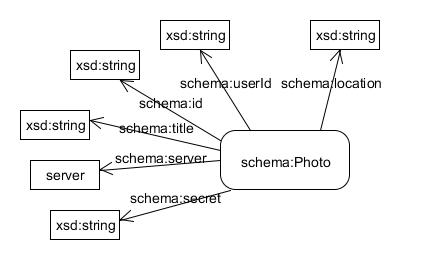
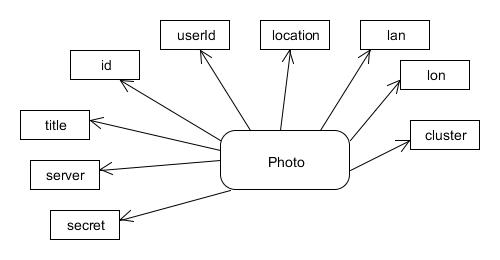
readme

diff --git a/src/test/Test.java b/src/test/Test.java
@@ -65,16 +65,16 @@ public class Test {
         CreateArff ca = new CreateArff();
         ca.general(listPhoto2);
 */
-    //    ReadArff ra = new ReadArff();
+        ReadArff ra = new ReadArff();
 
         //changing number of clusters led to a conclusion the best number is 5
-    /*    for (int i = 1; i < 30; i++) {
+        for (int i = 1; i < 30; i++) {
            ra.readArff("trial", i, "rez" + i);
         }
-*/
+
     //    ra.readArff("trial", 5, "result");
         
-       Desktop.getDesktop().browse(new URI("file:///home/jelena/NetBeansProjects/FlickrClusterization%20/src/visualization/sharks.html")); 
+    //   Desktop.getDesktop().browse(new URI("file:///home/jelena/NetBeansProjects/FlickrClusterization%20/src/visualization/sharks.html")); 
        
     }
 

diff --git a/src/weka/ReadArff.java b/src/weka/ReadArff.java
@@ -59,7 +59,7 @@ public class ReadArff {
         filteredClusterer.setFilter(removeFilter);
         filteredClusterer.buildClusterer(data);
 
-        writeCluster("data/changedLocation", data, filteredClusterer);
+    //    writeCluster("data/changedLocation", data, filteredClusterer);
 
         // Result of clusterization
         ClusterEvaluation eval = new ClusterEvaluation();

diff --git a/README.md b/README.md
@@ -1,8 +1,7 @@
 FlickrClusterization
 ==============
 #1. O projektu
-Tema projekta je da se kreira aplikacija koja će omogućiti da se pristupi podacima o slikama korišćenjem Flickr API-a (https://www.flickr.com/services/api/). Potrebno je preuzeti podatke o slikama, zatim obraditi podatke i sačuvati ih, kasnije pomoću servisa Geonames (http://www.geonames.org/) preuzeti podatke o lokaciji, odnosno državi.
-Takođe, potrebno je klasterizovati preuzete slike.
+Tema projekta je da se kreira aplikacija koja će omogućiti da se na osnovu raspoloživih podataka o slikama dobijenih korišćenjem Flickr API-a (https://www.flickr.com/services/api/) klasterizuju slike. S obzirom na raznovrsnost slika koje se svakodnevno postavljaju na Flickr, odlučila sam da ograničim domen aplikacije na slike o ajkulama.
 
 Faze u razvoju aplikacije:
 * Preuzimanje podataka o slikama kroz Flickr API i njihovo čuvanje
@@ -17,26 +16,49 @@ Nakon analize podataka koje pruža Flickr API (https://www.flickr.com/services/a
 
 Slika 1 - Domenski model
 
-Klasa Photo sadrži podatke o slici kao što su: id, id vlasnika, naslov slike, server, secret kod i podatak o lokaciji koji se dobija korišćenjem Geonames servisa. 
+Klasa Photo sadrži podatke o slici kao što su: id, id vlasnika, naslov slike, server, secret kod, podatak o lokaciji, geografsku dužinu i širinu i klaster kome slika pripada nakon što je izvršena klasterizacija.
 
 #3. Rešenje
-Aplikacija preuzima podatke sa dva različita izvora ([Flickr](https://www.flickr.com/services/api/), [Geonames](http://www.geonames.org/)), zatim spaja te podatke i stavlja ih u JSON fajl. 
+
+Flickr je sajt koji sčuži za postavljanje slika kako bi korisnici, i ostali posetioci sajta mogli da ih vide. Flickr omogućava pristup svojim podacima preko ([API-ja](https://www.flickr.com/services/api/). Kako bi se ova mogućnost koristila, prvo je potrebno registrovati se na sajt. Nakon registracije potrebno je zatražiti *API key* koji se kasnije koristi za pozivanje različitih funkcija ovog servisa. Primer korišćenja API-ja za dobijanje slika:
 
 [Flickr](https://www.flickr.com/services/api/) daje podatke o slici u željenom formatu. U sledećem primeru poziva korišćen je JSON format:
 >[https://api.flickr.com/services/rest/?method=flickr.photos.search&text=shark&sort=relevance&page=1&api_key=64a298d057676a6d7298262797a23440&format=json]
 (https://api.flickr.com/services/rest/?method=flickr.photos.search&text=shark&sort=relevance&page=1&api_key=64a298d057676a6d7298262797a23440&format=json)
 
-Parametar *method* ukazuje na metodu koja se poziva na sajtu, u ovom slučaju je to metoda search. Da bi se koristila metoda search, potrebno je uneti kriterijum pretrage, što je u primeru zadata reč shark. Parametar *sort* se odnosi na način sortiranja, ovde je to po relevantnosti. Zatim, parametar *page* nam pomaže da se lakše kećemo po dobijenim rezultatima pretrage, odnosno da nam kao rezultat metode bude vraćena samo prva stranica. Parametar *api_key* se dobija prilikom registracije za korišćenje Flickr API-a, i obavezan je deo poziva svake metode. Parametar *format* nam omogućava da rezultat metode bude vraćen u formatu koji nama odgovara, u ovom slučaju je to JSON. Podaci koji se na osnovu ovog poziva preuzimaju su: id, userId, title, server, secret i location.
+Parametri koji se šalju:
+* *method* ukazuje na metodu koja se poziva na sajtu, u ovom slučaju je to metoda search. Da bi se koristila metoda search, potrebno je uneti kriterijum pretrage, što je u primeru zadata reč *shark*
+* *sort* se odnosi na način sortiranja, ovde je to po relevantnosti.
+* *page* nam pomaže da se lakše krećemo po dobijenim rezultatima pretrage, odnosno da nam kao rezultat metode bude vraćena samo prva stranica
+* *api_key* se dobija prilikom registracije za korišćenje Flickr API-a.
+* *format* nam omogućava da rezultat metode bude vraćen u formatu koji nama odgovara, u ovom slučaju je to JSON.
 
-[Geonames](http://www.geonames.org/) daje podatke o geografskoj lokaciji unetog mesta. Ovde se mogu dobiti informacije kao što su geografska dužina i širina, kod države, populacija, naziv države. U sledećem primeru dat je poziv ovog servisa:
+Primer odgovora Flickr API-ja:
+
+```
+jsonFlickrApi({"photos":{"page":1,"pages":12505,"perpage":100,"total":"1250481","photo":[{"id":"5266243108","owner":"21915962@N02","secret":"8bb6ebc8b8","server":"5284","farm":6,"title":"Caribbean Reef Shark at Tiger Beach in the Bahamas","ispublic":1,"isfriend":0,"isfamily":0},{"id":"1038089969","owner":"94802649@N00","secret":"e01b5dd141","server":"1012","farm":2,"title":"Tiger shark","ispublic":1,"isfriend":0,"isfamily":0}]
+```
+
+U podacima koji su dobijeni na ovaj način ne postoji podatak o geografskoj širini i dužini, pa je zbog toga potrebno koristiti eksterni servis Geonames.
+
+Geonames je baza geografskih podataka koji su dostupni korišćenjem [Geonames API-ja](http://www.geonames.org/)). Kako bi se omogućilo korišćenje API-ja, potrebno je prvo registrovati se. Prilikom registracije bira se *username* koji se kasnije koristi za poziv operacija ovog servisa. Primer poziva operacije za dobijanje naziva države:
 
 >[http://api.geonames.org/searchJSON?q=Lake%20Worth,%20FL,%20USA&maxRows=1&username=jelena_tabas](http://api.geonames.org/searchJSON?q=Lake%20Worth,%20FL,%20USA&maxRows=1&username=jelena_tabas)
 
-Parametar *q* se odnosi na kriterijum pretrage, odnosno tu stoji informacija koje mesto želimo da nađemo, u ovom slučaju to je Lake Worth, FL, USA. Parametar *max_rows* nam omogućava da ograničimo rezultate pretrage, odnosno da dobijemo samo jedan rezultat, ovde je to prvi, koji smatramo najtačnijim, odnosno preciznijim za našu pretragu. Parametar *username* je potreban kako bi se izvršilo pozivanje Geonames servisa, dobija se prilikom registracije za korišćenje servisa. Preuzeti podaci: countryName.
+Poslati parametri:
+* *q* se odnosi na kriterijum pretrage, odnosno tu stoji informacija koje mesto želimo da nađemo, u ovom slučaju to je Lake Worth, FL, USA.
+* *max_rows* nam omogućava da ograničimo rezultate pretrage, odnosno da dobijemo samo jedan rezultat, ovde je to prvi, koji smatramo najtačnijim, odnosno preciznijim za našu pretragu.
+* *username* je potreban kako bi se izvršilo pozivanje Geonames servisa, dobija se prilikom registracije za korišćenje servisa.
 
-Nakon preuzimanja podataka, može se primetiti da za pojedine slike ne postoji podatak o lokaciji, te nije mogao da se izvrši poziv servisa [Geonames](http://www.geonames.org/), odnosno nisu dobijeni podaci. Zbog toga su slike koje nemaju podatak o lokaciji izbačene iz obrade, tačnije, one koje imaju podatak o lokaciji su premeštene u drugi fajl.
+Primer odgovora Geonames API-ja:
 
-Takođe, kako bi se kasnije omogućila klasterizacija slika na osnovu vrste ajkule koja je prikazana, bilo je potrebno izvršiti obradu podataka. Zbog toga se iz naslova slika zaključivalo koja je vrsta ajkule na slici, te se sama slika nazivala po vrsti. Rezultat ove operacije je dobijeno dvadeset i jedna vrsta ajkule i jedna kao nedefinisana koja ima naziv ajkula.
+```
+{"totalResultsCount":60,"geonames":[{"countryId":"6252001","adminCode1":"FL","countryName":"United States","fclName":"city, village,...","countryCode":"US","lng":"-80.05699","fcodeName":"populated place","toponymName":"Lake Worth","fcl":"P","name":"Lake Worth","fcode":"PPL","geonameId":4161422,"lat":"26.6159","adminName1":"Florida","population":34910}]}
+```
+
+Podaci koji su preuzeti se nalaze u *countryName*, u ovom primeru to je *United States*.
+
+Za potrebe aplikacije preuzeto je 800 slika korišćenjem Flickr API-ja. Ove slike su prošle selekciju, odnosno odbačene su one koje nemaju podatak o lokaciji, nakon čega je ostalo 577 slika. Podatak o lokaciji, odnosno nazivu mesta i/ili države poslat je Geonames API-ju, a natrag su dobijeni podaci o geografskoj širini i dužini koji će se kasnije koristiti za klasterizaciju.
 
 Svi podaci koji su dobijeni smeštani su u JSON fajl. Primer JSON objekta dat je niže:
 
@@ -67,7 +89,7 @@ Svi podaci koji su dobijeni smeštani su u JSON fajl. Primer JSON objekta dat je
 	]
 ```
 
-Kao što se može videti, JSON fajl se sastoji od JSON objekata. Svaki objekat sadrži podatke o slici: id, userId, secret, server, title, location, lon, lat i cluster. Dalje su ovi podaci konvertovani u ARFF fajl. ARFF (Attribute-Relation File Format) fajl je tekstualan ASCII koji opisuje listu instanci koje dele set atributa. ARFF fajl se kasnije koristi za klasterizaciju. Za klasterizaciju je izabrano četiri klastera, jer je probom ustanovljeno da se oko te vrednosti dešava najmanje rasipanje podataka, odnosno najmanja promena greške nastale usled klasterovanja. Nakon klasterovanja, u podacima je promenjena vrednost podatka cluster, pa je dobjen novi JSON fajl:
+Kao što se može videti, JSON fajl se sastoji od JSON objekata. Svaki objekat sadrži podatke o slici: id, userId, secret, server, title, location, lon, lat i cluster. Dalje su ovi podaci konvertovani u ARFF fajl. ARFF (Attribute-Relation File Format) fajl je tekstualan ASCII koji opisuje listu instanci koje dele set atributa. ARFF fajl se kasnije koristi za klasterizaciju. Za klasterizaciju je izabrano pet klastera, jer je probom ustanovljeno da se oko te vrednosti dešava najmanje rasipanje podataka, odnosno najmanja promena greške nastale usled klasterovanja. Nakon klasterovanja, u podacima je promenjena vrednost podatka cluster, pa je dobjen novi JSON fajl:
 
 ```
 	[
@@ -96,14 +118,41 @@ Kao što se može videti, JSON fajl se sastoji od JSON objekata. Svaki objekat s
 	]
 ```
 
+#4. Proces klasterovanja
 
-#4. Korišćena tehnologija
+U ovom primeru korišćen je SimpleKMeans algoritam za klasterovanje. Jedan je od najpoznatijih algoritama za klasterovanje. Koristi se tako što mu se zada broj klastera, a zatim on prolazeći kroz iteracije razvrstava podatke. SimpleKMeans grupiše instance na osnovu Euklidske udaljenosti u ravni koja je postavljena atributima tih instanci. Na početku, prilikom inicijalizacije nasumično bira onoliki broj težišta klastera koliko je zadati broj klastera. U sledećoj iteraciji razvrstava instance na osnovu udaljenosti od težišta klastera. Zatim pomera težište klastera na osnovu izračunatih proseka vrednosti instanci u klasteru. Ovaj postupak se ponavlja sve dok algoritam ne konvergira, jer daljim razvrstavanjem se nece dobiti značajnije promene, pa se proces zaustavlja. 
+
+Kako bi se utvrdilo koji broj klastera je najpogodniji, odnosno koji broj je onaj koji pravi najmanju kvadratnu grešku, potrebno je izvršiti probu. Rezultat probe se može videti na slici 2. Menjanjem broja klastera ustanovljeno je da se prilikom klasterizacije na pet klastera dobija najmanje osipanje podataka uz najmanju kvadratnu grešku od 4.942677457897851.
+
+![Slika 2 - Graph](images/graph.jpg)
+
+Slika 2- Grafikon kvadratnih grešaka
+
+Primenom SimpleKMeans algoritma, dobijeni su sledeći klasteri:
+
+![Slika 3 - Type clusters](images/results.jpg)
+
+Slika 3 - Rezultat klasterizacije
+
+Kao što se na slici 3 može videti, dobijeno je pet klastera sa po 140, 279, 49, 72 i 37 instanci respektivno. U prvom klasteru se nalaze vrste ajkula među kojima je najvise nurse ajkula. U drugom su pretežno bele ajkule. U trećem limun, tigar i reef ajkule. U četvrtom najviše ima kit ajkula. U petom je najviše neimenovanih ajkula, zatim reef i belih ajkula.
+
+U prvom se nalaze instance čija je lokacija najbliža Evropi (njih 140). U drugom se nalaze one koje su najbliže Sjedinjenim Američkim Državama (njih 279). U trećem se nalaze one koje su po lokaciji najbliže Kini (njih 49). U četvrtom se nalaze one instance koje su po lokaciji najbliže Australiji (njih 72). U petom se nalaze one koje su najbliže Južnoj Americi i Africi (njih 37).
+
+Na slici 3 se može videti koliko instanci je u kom klasteru. Od ukupno 577 instanci 140 (24%) je u prvom klasteru; 279 (48%) u drugom; 49 (8%) u trećem; 72 (12%) u četvrtom i 37 (6%) u petom.
+
+Na slici 4 se može videti prikaz klasterizovanih podataka prikazanih na mapi sveta.
+
+![Slika 4 - Clusters](images/map.jpg)
+
+Slika 4- Prikaz klasterizovanih podataka
+
+#5. Korišćene tehnologije
 
 Aplikacija je napisana u programskom jeziku Java. 
 
 Prilikom realizacije aplikacije korišćene su sledeće tehnologije:
 
-1. [Biblioteka za izvrsenje HTTP poziva](http://hc.apache.org/httpcomponents-client-ga/) - za izvršavanje poziva Flickr i Geonames metoda, kako bi se omogućilo dobijanje podataka na kojima će se kasnije raditi.
+1. [Apache Commons](http://hc.apache.org/httpcomponents-client-ga/) - za izvršavanje poziva Flickr i Geonames metoda, kako bi se omogućilo dobijanje podataka na kojima će se kasnije raditi.
 
 ```
     	setMethod(new GetMethod(getRequest()));
@@ -114,15 +163,7 @@ Prilikom realizacije aplikacije korišćene su sledeće tehnologije:
 	setRstream(null);
 	setRstream(getMethod().getResponseBodyAsStream());
 ```
-
-2. [Biblioteka za rad sa JSON-om](http://json.org/java/) - za korišćenje JSON formata i objekata. JSON omogućava lakšu manipulaciu podacima, s obzirom da su podaci smešteni u stablo. Identifikator podatka je njegov naziv preko koga mu se i pristupa. JSON fajl je i čitljiv, odnosno može se jasno razumeti, i ima jednostavnu formu.
-
-```
-      JSONObject jobj = new JSONObject(jstr);
-      JSONObject owner = jobj.getJSONObject("photo").getJSONObject("owner");
-```
-
-3. [GSON biblioteka](https://code.google.com/p/google-gson/) - omogućava korišćenje JSON-a tako što konvertuje Java objekte u JSON objekte. Takođe, može se koristiti i obrnuto za pretvaranje JSON stringa u Java objekte.
+2. [GSON biblioteka](https://code.google.com/p/google-gson/) - omogućava korišćenje JSON-a tako što konvertuje Java objekte u JSON objekte. Takođe, može se koristiti i obrnuto za pretvaranje JSON stringa u Java objekte.
 
 ```
 	JsonArray photosArray = new JsonArray();
@@ -130,7 +171,7 @@ Prilikom realizacije aplikacije korišćene su sledeće tehnologije:
 	photoJson.addProperty("id", p.getId());
 ```
 
-4. [Weka](http://weka.wikispaces.com/Use+WEKA+in+your+Java+code) - (Waikato Environment for Knowledge Analysis) - softver za mašinsko učenje koji omogućuje da izvršimo klasterizaciju podataka (slika). Weka čita iz ARFF fajla podatke, i na osnovu zadatih parametara (filtera, broja klastera, načina klasterizacije) vrši klasterizaciju i ispisuje rezultat.
+3. [Weka](http://weka.wikispaces.com/Use+WEKA+in+your+Java+code) - (Waikato Environment for Knowledge Analysis) - softver za mašinsko učenje koji omogućuje da izvršimo klasterizaciju podataka (slika). Weka čita iz ARFF fajla podatke, i na osnovu zadatih parametara (filtera, broja klastera, načina klasterizacije) vrši klasterizaciju i ispisuje rezultat.
 
 ```
 	ClusterEvaluation eval = new ClusterEvaluation();
@@ -138,7 +179,7 @@ Prilikom realizacije aplikacije korišćene su sledeće tehnologije:
 	eval.evaluateClusterer(data);
 ```
 
-5. [Google maps] (https://developers.google.com/maps/documentation/javascript/) - koriščeno za prikaz klastera na mapi sveta. Omogućava postavljanje različitih markera na mapi, kako bi se označila pripadnost određenoj grupi klastera. Za korišćenje je potreban *api key* kako bi se pozvao servis:
+4. [Google maps] (https://developers.google.com/maps/documentation/javascript/) - koriščeno za prikaz klastera na mapi sveta. Omogućava postavljanje različitih markera na mapi, kako bi se označila pripadnost određenoj grupi klastera. Za korišćenje je potreban *api key* kako bi se pozvao servis:
 
 ```
         <script type="text/javascript"
@@ -170,23 +211,5 @@ Za postavljanje markera napravljena je posebna funkcija:
        }
 ```
 
-U ovom primeru korišćen je SimpleKMeans algoritam za klasterovanje. Jedan je od najpoznatijih algoritama za klasterovanje. Koristi se tako što mu se zada broj klastera, a zatim on prolazeći kroz iteracije razvrstava podatke. SimpleKMeans grupiše instance na osnovu Euklidske udaljenosti u ravni koja je postavljena atributima tih instanci. Na početku, prilikom inicijalizacije nasumično bira onoliki broj težišta klastera koliko je zadati broj klastera. U sledećoj iteraciji razvrstava instance na osnovu udaljenosti od težišta klastera. Zatim pomera težište klastera na osnovu izračunatih proseka vrednosti instanci u klasteru. Ovaj postupak se ponavlja sve dok algoritam ne konvergira, jer daljim razvrstavanjem se nece dobiti značajnije promene, pa se proces zaustavlja. Primenom ovog algoritma, dobijeni su sledeći klasteri:
-
-![Slika 2 - Type clusters](images/results.jpg)
-
-Slika 2 - Rezultat klasterizacije
-
-Kao što se na slici 2 može videti, dobijeno je pet klastera sa po 140, 279, 49, 72 i 37 instanci respektivno. U prvom klasteru se nalaze vrste ajkula među kojima je najvise nurse ajkula. U drugom su pretežno bele ajkule. U trećem limun, tigar i reef ajkule. U četvrtom najviše ima kit ajkula. U petom je najviše neimenovanih ajkula, zatimreef i belih ajkula.
-
-U prvom se nalaze instance čija je lokacija najbliža Evropi (njih 140). U drugom se nalaze one koje su najbliže Sjedinjenim Američkim Državama (njih 279). U trećem se nalaze one koje su po lokaciji najbliže Kini (njih 49). U četvrtom se nalaze one instance koje su po lokaciji najbliže Australiji (njih 72). U petom se nalaze one koje su najbliže Južnoj Americi i Africi (njih 37).
-
-Na slici 2 se može videti koliko instanci je u kom klasteru. Od ukupno 577 instanci 140 (24%) je u prvom klasteru; 279 (48%) u drugom; 49 (8%) u trećem; 72 (12%) u četvrtom i 37 (6%) u petom. Metodom probanja dobijeno je da se se prilikom klasterizacije na pet klastera dobija najmanje osipanje podataka uz najmanju kvadratnu grešku od 4.942677457897851.
-
-Na slici 3 se može videti prikaz klasterizovanih podataka prikazanih na mapi sveta.
-
-![Slika 3 - Clusters](images/map.jpg)
-
-Slika 3- Prikaz klasterizovanih podataka
-
-#5. Priznanja
+#6. Priznanja
 Ova aplikacija je nastala kao rezultat seminarskog rada iz predmeta [Inteligentni sistemi](http://is.fon.rs/) na Fakultetu organizacionih nauka, Univerziteta u Beogradu, Srbija, 2014. godine.
